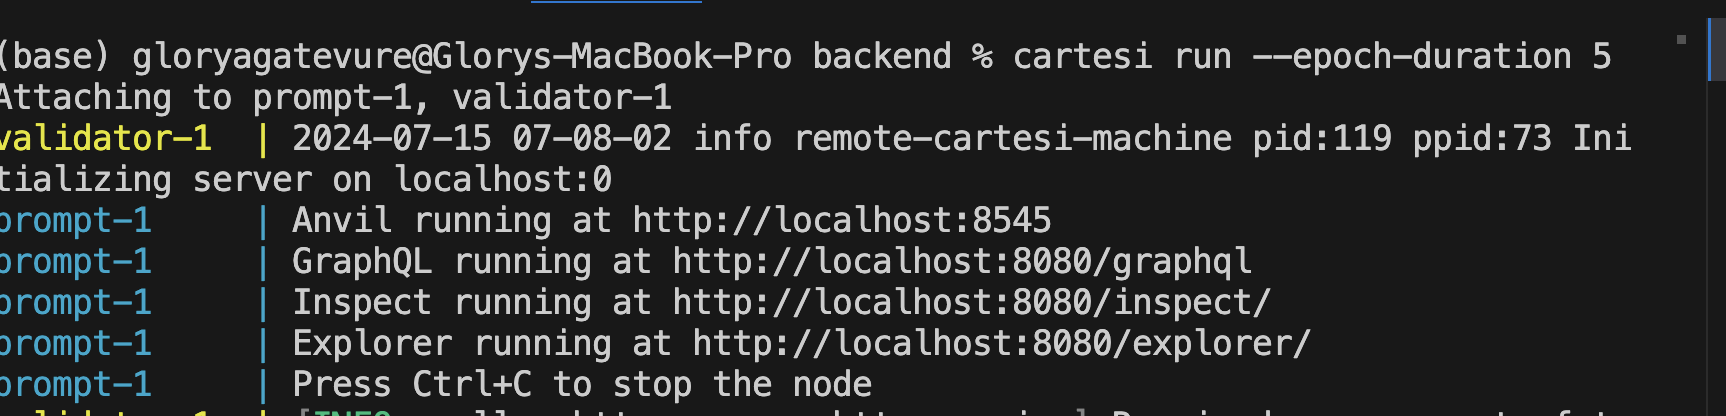
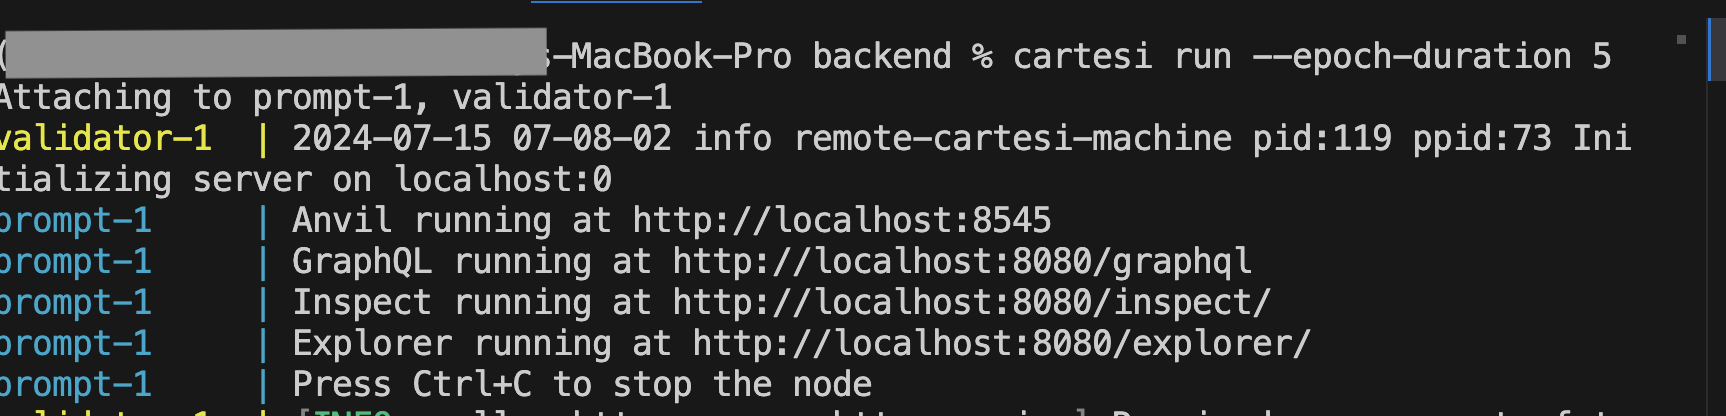
update readme and move images to the images directory

Changed region(s): [[0.0, 0.0625, 0.3378, 0.1875]]

diff --git a/README.md b/README.md
@@ -50,7 +50,7 @@ To create a new project, run this command
 npx cartdevkit@latest create mydapp
 ```
 You should see something like this
-![prompt image](<Screenshot 2024-07-17 at 1.18.39 AM.png>)
+![prompt image](./images//cardevkit-cli-output.png)
 
 Replace myapp with the desired name of your project. This command will prompt you to select a template and configure the project settings.
 
@@ -82,7 +82,7 @@ The next step will be to start the local server by running
   cartesi run
 ```
 If all goes well you should see this
-![Cartesi run](<Screenshot 2024-07-15 at 10.00.50 AM.png>)
+![Cartesi run](./images/run-output.png)
 
 ### Debugging 
 For quick troubleshooting incase you run into any issue you can quickly check the status using
@@ -148,7 +148,7 @@ CartesiKit offers templates for mobile app development using React Native (with 
 
 ## Built With
 - Cartesi Rollup
-- Sunodo
+- Cartesi CLI
 - Deroll/Cartesi Wallet
 - Deroll/Cartesi Router
 - Cartesify
